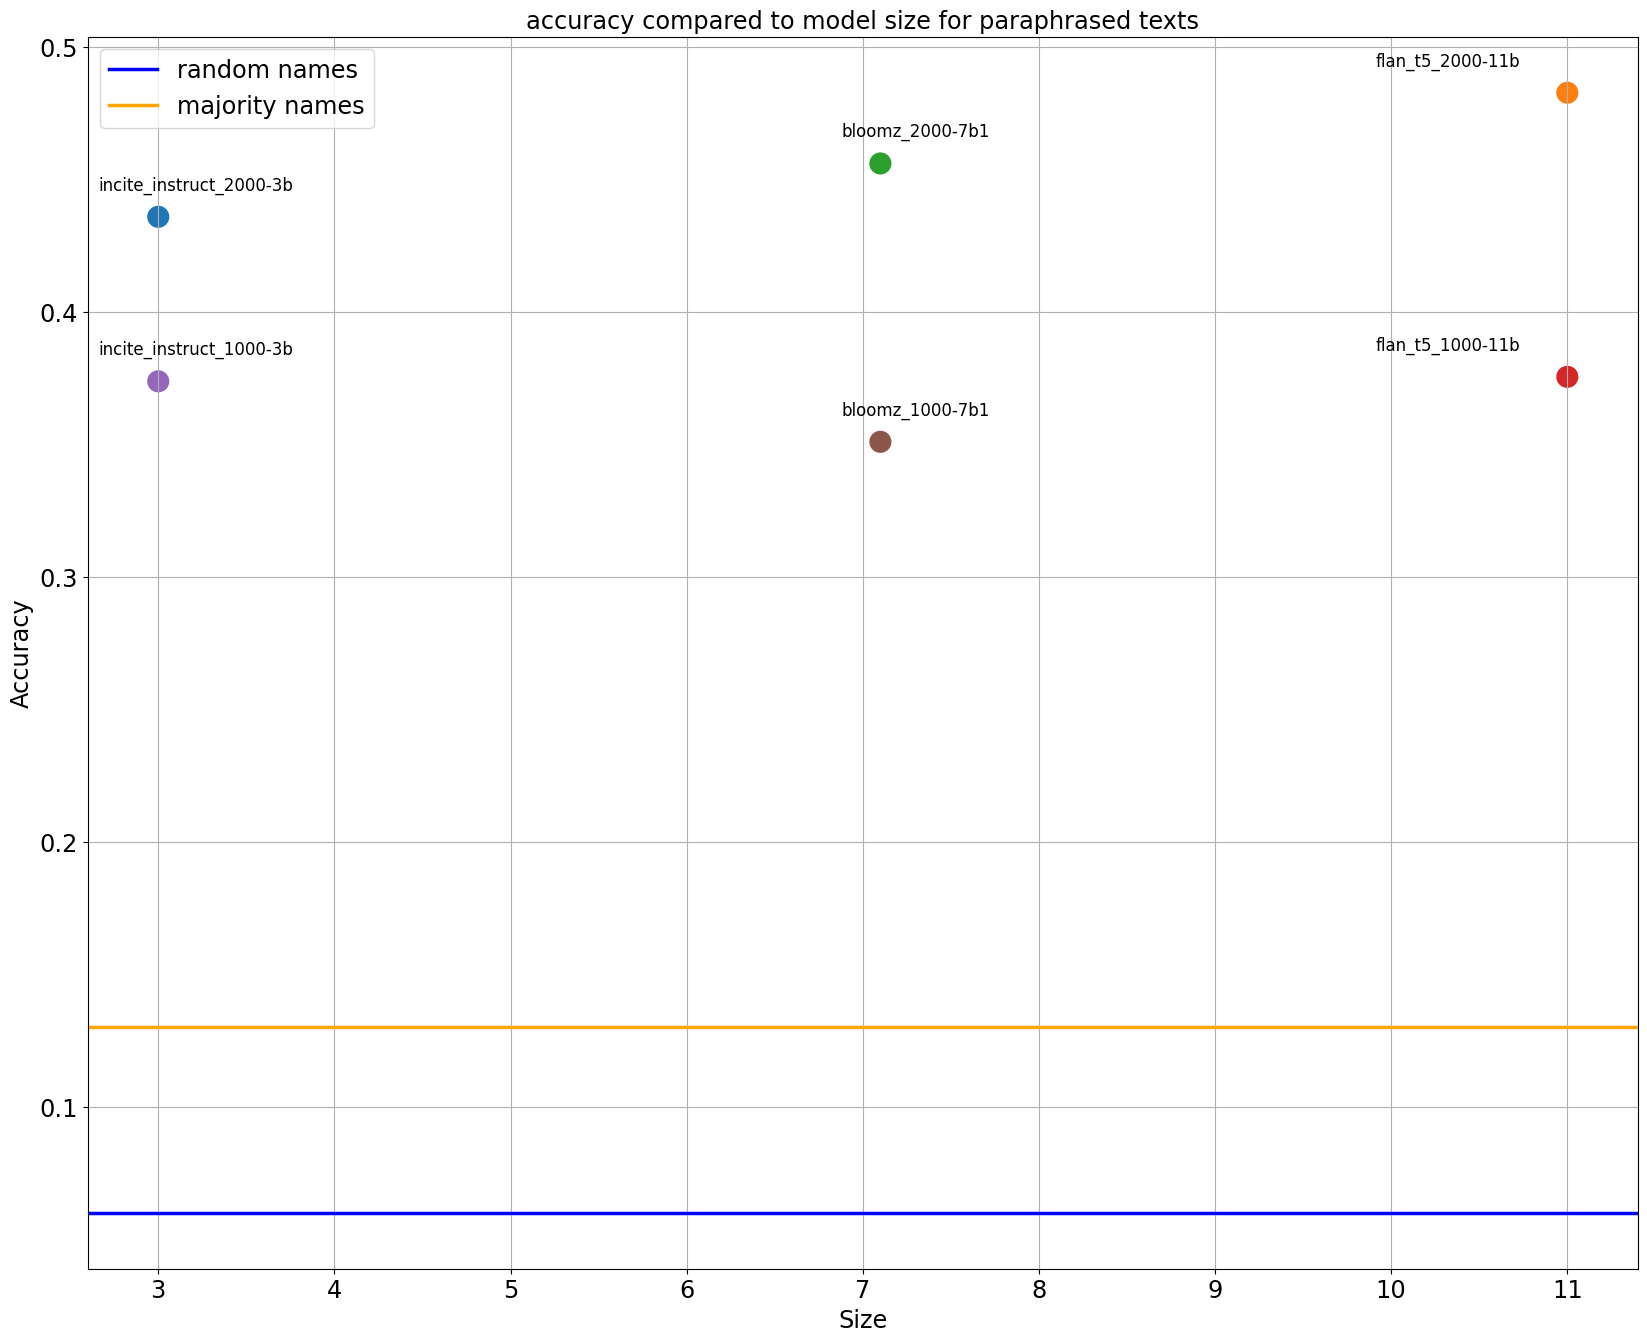
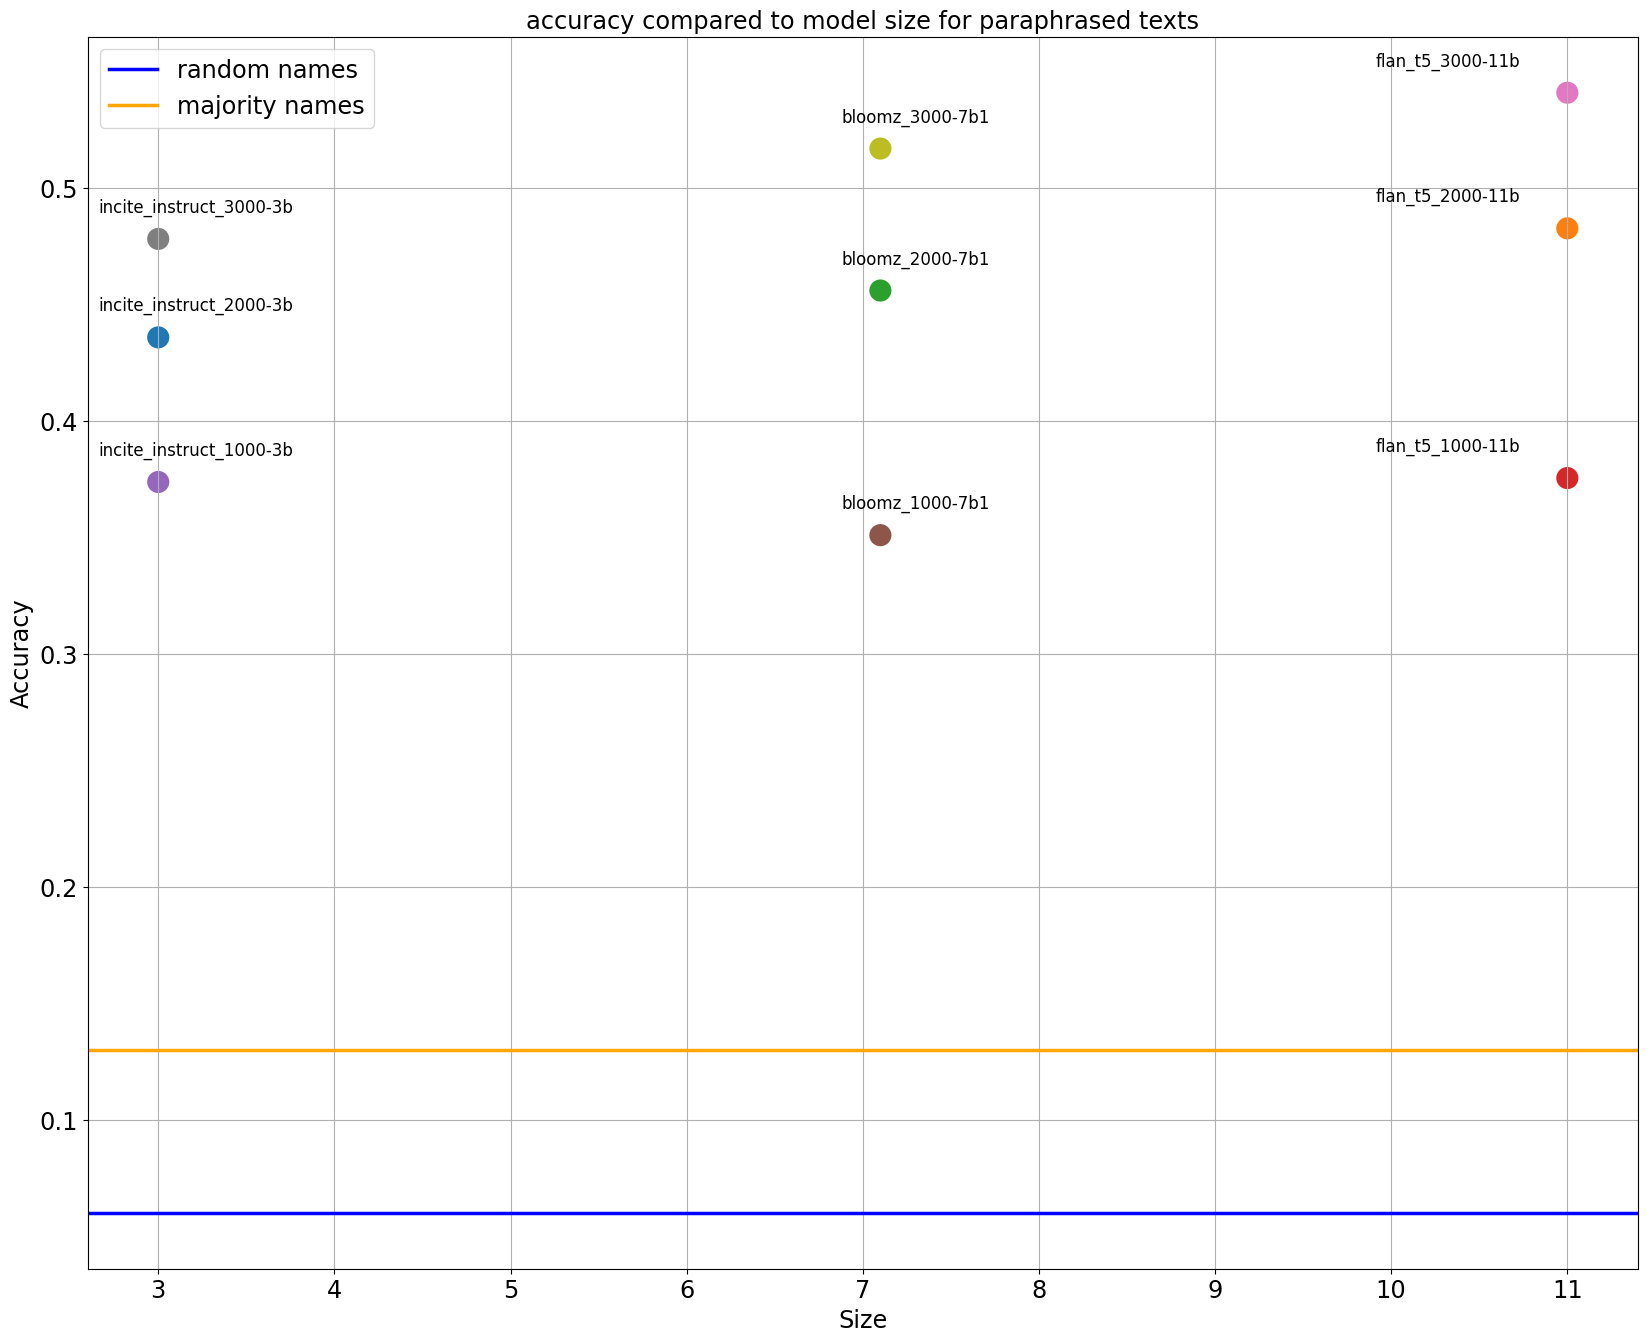
size comparison with 3 sizes

diff --git a/wiki_poc/evaluation/plotting/precomputed_plotting.py b/wiki_poc/evaluation/plotting/precomputed_plotting.py
@@ -394,6 +394,27 @@ class PrecomputedPlotting():
             percentage_length = 0.8
             plt.text(x1 + percentage_length, start + y_diff / 2, f'+{abs(y_diff):.2%}', ha='right', va='center', fontsize=my_font_size - 2)
 
+            # got a third point, compare it as well
+            if len(sorted_data) == 3:
+                x3, y3 = sorted_data.iloc[2]['size'], sorted_data.iloc[2]['accuracy']
+                print("model", group)
+                print("x2", x1, "y2", y1)
+                print("x3", x3, "y3", y3)
+
+                # Calculate the difference in y values
+                y_diff = abs(y3 - y1) - padding - 0.004 # remove dot radius
+
+                start = min(y1, y3) + 0.01
+                print("start", start)
+
+                # Draw the arrow
+                plt.arrow(x2, start, 0, y_diff, head_width=0.1, head_length=0.003, width=0.015, color='black', length_includes_head=True)
+
+                # Add the percentage score alongside the arrow, move text by "percentage_length" to the right
+                percentage_length = 0.8
+                plt.text(x2 + percentage_length, start + y_diff / 2, f'+{abs(y_diff):.2%}', ha='right', va='center', fontsize=my_font_size - 2)
+
+
         # Set labels and title
         plt.xlabel("Size [Billion Parameters]", fontsize=my_font_size)
         plt.ylabel("Accuracy", fontsize=my_font_size)
